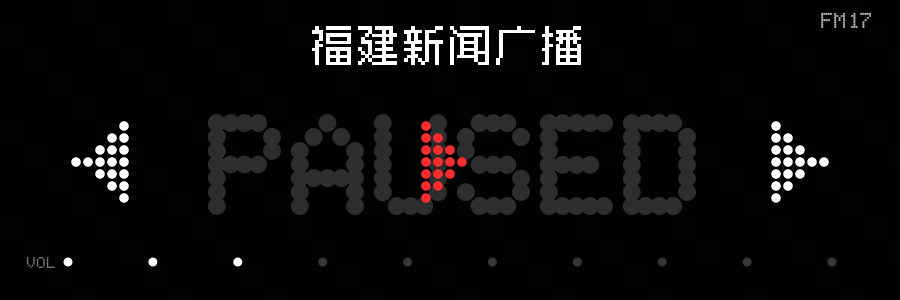
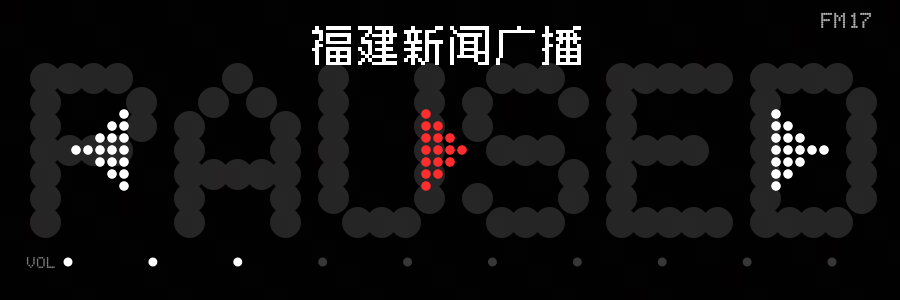
fix: geometrically center and maximize widget status layout

Changed region(s): [[0.0311, 0.21, 0.9956, 0.81]]

diff --git a/src/com/example/radiowidget/WidgetRenderer.java b/src/com/example/radiowidget/WidgetRenderer.java
@@ -9,6 +9,7 @@ import android.graphics.Bitmap;
 import android.graphics.Canvas;
 import android.graphics.Color;
 import android.graphics.Paint;
+import android.graphics.Rect;
 import android.graphics.Typeface;
 import android.net.Uri;
 import android.widget.RemoteViews;
@@ -17,6 +18,10 @@ import android.widget.RemoteViews;
 public final class WidgetRenderer {
     public static final int WIDTH = 900;
     public static final int HEIGHT = 300;
+    private static final float CENTER_X = WIDTH / 2f;
+    private static final float CENTER_Y = HEIGHT / 2f;
+    private static final float SIDE_CONTROL_INSET = 100f;
+    private static final float CONTENT_EDGE_INSET = 28f;
 
     private static final int[] VOLUME_IDS = new int[]{
             R.id.vol_0, R.id.vol_1, R.id.vol_2, R.id.vol_3, R.id.vol_4,
@@ -143,7 +148,7 @@ public final class WidgetRenderer {
         paint.setTextSize(42f);
         paint.setTextAlign(Paint.Align.CENTER);
         paint.setAntiAlias(false);
-        canvas.drawText(station.name, WIDTH / 2f, 58f, paint);
+        canvas.drawText(station.name, CENTER_X, 58f, paint);
 
         resetPaint();
         paint.setColor(Color.argb(175, 255, 255, 255));
@@ -152,7 +157,7 @@ public final class WidgetRenderer {
         paint.setTextAlign(Paint.Align.RIGHT);
         paint.setAntiAlias(true);
         String number = String.format(java.util.Locale.US, "FM %02d", state.stationIndex + 1);
-        canvas.drawText(number, WIDTH - 28f, 28f, paint);
+        canvas.drawText(number, WIDTH - CONTENT_EDGE_INSET, 28f, paint);
 
     }
 
@@ -164,17 +169,31 @@ public final class WidgetRenderer {
         paint.setFakeBoldText(true);
         paint.setAntiAlias(true);
         if (hero) {
-            paint.setTextSize(138f);
+            String text = statusText(state);
+            paint.setTextSize(300f);
             paint.setTextAlign(Paint.Align.CENTER);
             paint.setColor(state == WidgetStateStore.PlaybackState.PLAYING
-                    ? Color.argb(42, 255, 45, 45)
-                    : Color.argb(44, 255, 255, 255));
-            canvas.drawText(statusText(state), WIDTH / 2f, 215f, paint);
+                    ? Color.argb(34, 255, 45, 45)
+                    : Color.argb(36, 255, 255, 255));
+
+            // Fit against the real glyph bounds, then center the actual painted pixels.
+            // This avoids relying on a guessed baseline or on font metrics with empty space.
+            Rect bounds = new Rect();
+            paint.getTextBounds(text, 0, text.length(), bounds);
+            float availableWidth = WIDTH - 2f * 24f;
+            float availableHeight = HEIGHT - 2f * 26f;
+            float fitScale = Math.min(1f, Math.min(
+                    availableWidth / Math.max(1f, bounds.width()),
+                    availableHeight / Math.max(1f, bounds.height())));
+            paint.setTextSize(paint.getTextSize() * fitScale);
+            paint.getTextBounds(text, 0, text.length(), bounds);
+            float baseline = CENTER_Y - (bounds.top + bounds.bottom) / 2f;
+            canvas.drawText(text, CENTER_X, baseline, paint);
         } else {
             paint.setTextSize(24f);
             paint.setTextAlign(Paint.Align.LEFT);
             paint.setColor(statusColor(state));
-            canvas.drawText(statusText(state), 28f, 30f, paint);
+            canvas.drawText(statusText(state), CONTENT_EDGE_INSET, 30f, paint);
         }
     }
 
@@ -182,8 +201,10 @@ public final class WidgetRenderer {
                               int frame, String pressedAction) {
         int white = Color.WHITE;
         int red = Color.rgb(255, 45, 45);
-        drawDotPattern(canvas, 100, 162, PATTERN_PREV, 4.8f, 12f, white);
-        drawDotPattern(canvas, WIDTH - 100, 162, PATTERN_NEXT, 4.8f, 12f, white);
+        drawDotPattern(canvas, SIDE_CONTROL_INSET, CENTER_Y,
+                PATTERN_PREV, 4.8f, 12f, white);
+        drawDotPattern(canvas, WIDTH - SIDE_CONTROL_INSET, CENTER_Y,
+                PATTERN_NEXT, 4.8f, 12f, white);
 
         String[] center;
         if (state.playbackState == WidgetStateStore.PlaybackState.PLAYING) {
@@ -196,7 +217,7 @@ public final class WidgetRenderer {
         float pulse = state.playbackState == WidgetStateStore.PlaybackState.PLAYING
                 && RadioService.ACTION_TOGGLE.equals(pressedAction)
                 ? 4.8f + (frame % 3) * 0.35f : 4.8f;
-        drawDotPattern(canvas, WIDTH / 2f, 162, center, pulse, 12f, red);
+        drawDotPattern(canvas, CENTER_X, CENTER_Y, center, pulse, 12f, red);
     }
 
     private void drawVolume(Canvas canvas, float volume, int frame, boolean pressed) {

diff --git a/README.md b/README.md
@@ -26,13 +26,13 @@
 
 ## 📦 直接安装
 
-仓库根目录的 `radiowidget.apk` 是当前稳定版（v2.3.2），可以直接下载安装；也可以从源码构建，产物位于 `build/radiowidget.apk`：
+仓库根目录的 `radiowidget.apk` 是当前稳定版（v2.3.3），可以直接下载安装；也可以从源码构建，产物位于 `build/radiowidget.apk`：
 
 ```bash
 adb install -r radiowidget.apk
 ```
 
-安装后：长按桌面空白 → 小组件 → 找到 **「点阵电台」** → 拖到桌面。组件固定为 3×1。v2 包名为 `com.unimend.nothingradio`，可与历史 v1 并存。v2.3.2 将 `PAUSED` 与 `ON AIR` 改为 138px 加粗、低透明度背景排版；播放期间每 8 秒显示一次约 0.5 秒的随机彩色扩散。
+安装后：长按桌面空白 → 小组件 → 找到 **「点阵电台」** → 拖到桌面。组件固定为 3×1。v2 包名为 `com.unimend.nothingradio`，可与历史 v1 并存。v2.3.3 会根据真实字形边界把 `PAUSED` 与 `ON AIR` 放大到背景可容纳的最大尺寸，并将大字与三个控制按钮严格对齐到组件中心轴。
 
 ## 🔨 从源码构建
 
@@ -100,4 +100,4 @@ MIT License，详见 [LICENSE](./LICENSE)。
 
 ---
 
-*一个在 OnePlus 7T Pro（Android 12，Magisk root）上从零定制、手写编译的 Nothing 风格电台组件。v2.3.2 已完成构建、安装、桌面交互、18 台联网播放、HTTPS 链路、状态持久化、超大状态排版、周期背景动画及 3×5/5×6 桌面网格适配验证。*
+*一个在 OnePlus 7T Pro（Android 12，Magisk root）上从零定制、手写编译的 Nothing 风格电台组件。v2.3.3 已完成构建、安装、桌面交互、18 台联网播放、HTTPS 链路、状态持久化、自动满幅状态排版、几何对齐审计、周期背景动画及 3×5/5×6 桌面网格适配验证。*

diff --git a/PROJECT_NOTES.md b/PROJECT_NOTES.md
@@ -6,6 +6,18 @@
 
 ## 2026-10-10 - v2.1 HTTPS 流修复与半透明点阵背景
 
+### 2026-10-12 - v2.3.3 满幅状态字与布局对齐审计
+
+- 发现三个控制图标原来位于 `y=162`，相对 900×300 画布真实中心 `(450,150)` 向下偏 12px。
+- 现在中央播放/暂停键严格位于 `(450,150)`；左右切台键位于 `(100,150)` 和 `(800,150)`。
+- 左右箭头图案均为 5 列、间距 12、圆点半径 4.8；实际最外沿分别距左右边约 `71.2px`，完全对称。
+- 音量条首尾中心为 `x=68/832`，相对中心轴对称；电台标题使用 `x=450`；右上 FM 台号与左上临时状态均使用 28px 边距。
+- 大状态字从 300px 初始字号开始，根据 `Paint.getTextBounds()` 的实际像素宽高自动缩小，限制在左右 24px、上下 26px 的安全区域内。
+- 大字基线使用 `centerY - (bounds.top + bounds.bottom) / 2` 计算，因此不是仅 TextAlign 水平居中，而是实际绘制像素在水平和垂直方向都居中。
+- `PAUSED` / `ON AIR` 透明度随面积增大降到 alpha 36/34，避免满幅文字压过标题和控制按钮。
+- 真机分别验证暂停和播放画面，组件中心、背景字中心和中央按钮中心重合。
+- 版本升级为 `2.3.3`、`versionCode=11`。
+
 ### 2026-10-12 - v2.3.2 超大状态背景排版
 
 - 22px 左上状态在桌面最终缩放后仍不够明显，因此不再把 `PAUSED` / `ON AIR` 当作角落标签。
